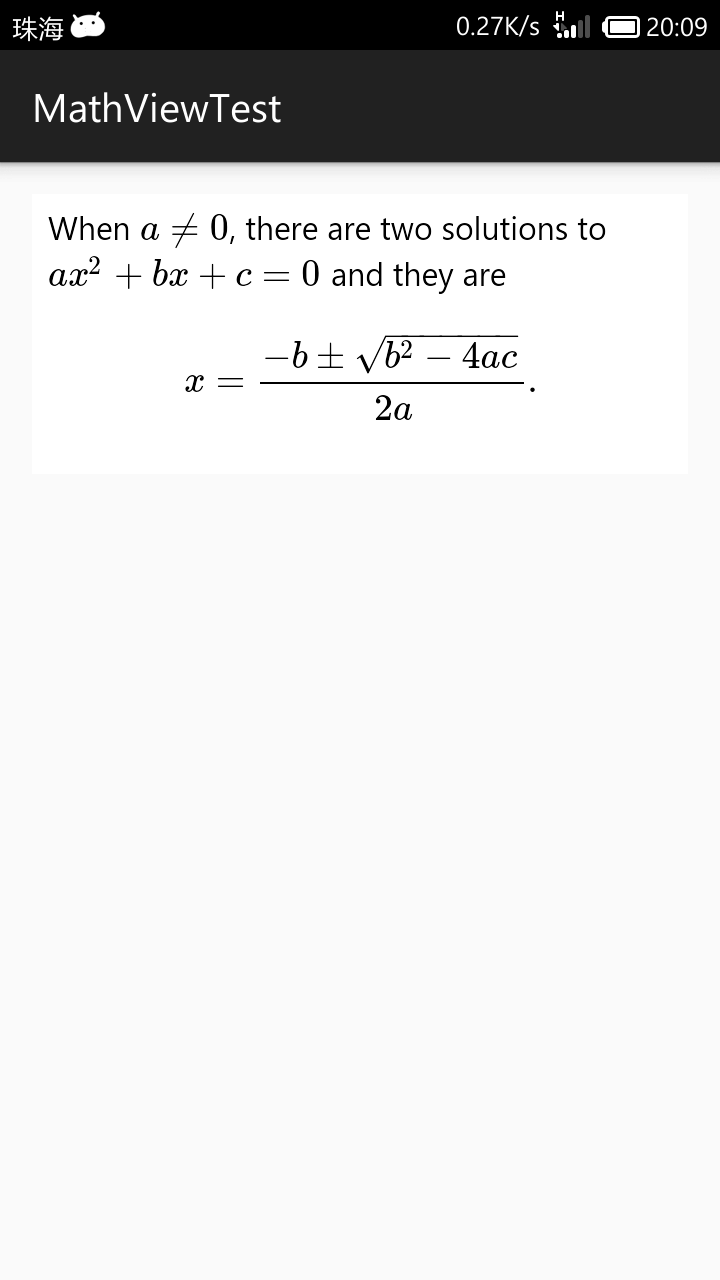
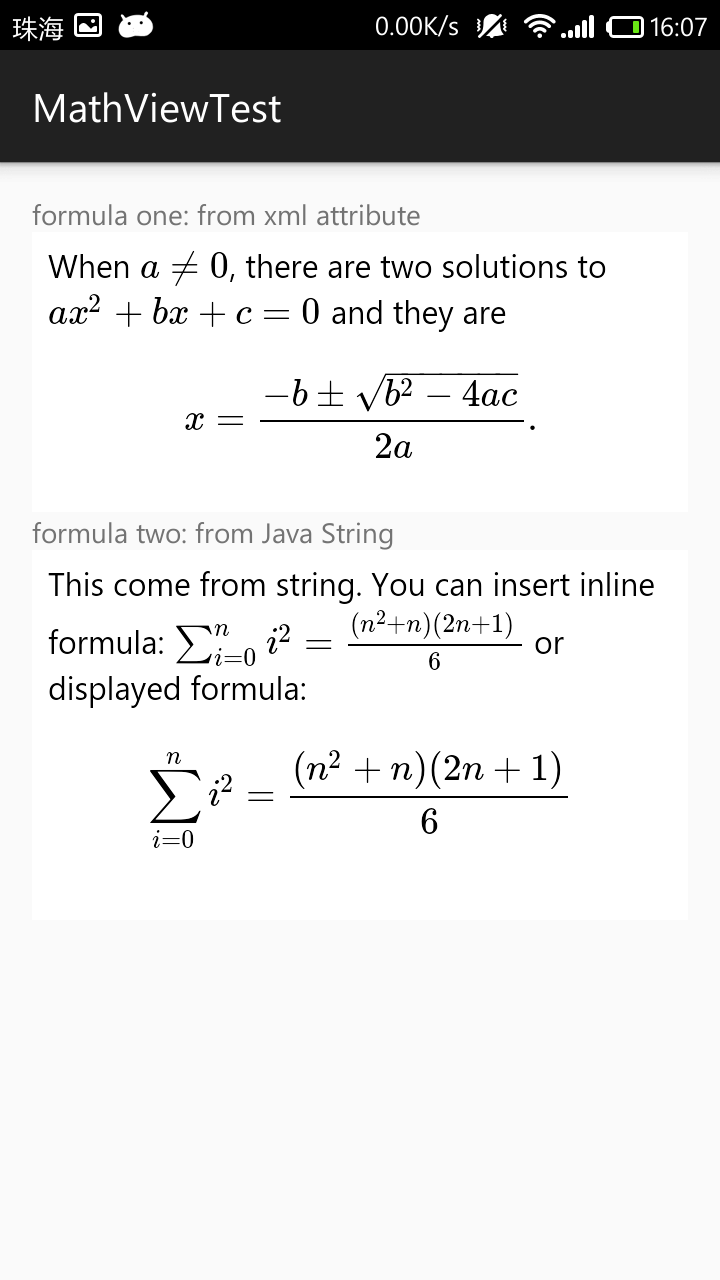
update README.md

diff --git a/app/src/main/java/io/github/kexanie/mathviewtest/MainActivity.java b/app/src/main/java/io/github/kexanie/mathviewtest/MainActivity.java
@@ -4,13 +4,31 @@ import android.support.v7.app.AppCompatActivity;
 import android.os.Bundle;
 import android.view.Menu;
 import android.view.MenuItem;
+import android.widget.Toast;
+
+import io.github.kexanie.library.MathView;
 
 public class MainActivity extends AppCompatActivity {
+    MathView math_one;
+    MathView math_two;
+    String tex = "This come from string. You can insert inline formula: \\(\\sum_{i=0}^n i^2 = \\frac{(n^2+n)(2n+1)}{6}\\) or displayed formula: $$\\sum_{i=0}^n i^2 = \\frac{(n^2+n)(2n+1)}{6}$$";
 
     @Override
     protected void onCreate(Bundle savedInstanceState) {
         super.onCreate(savedInstanceState);
         setContentView(R.layout.activity_main);
+    }
+
+    @Override
+    protected void onResume() {
+        super.onResume();
+
+        math_one = (MathView) findViewById(R.id.formula_one);
+        math_two = (MathView) findViewById(R.id.formula_two);
+
+        // This toast will print raw TeX string
+        Toast.makeText(this, math_one.getText(), Toast.LENGTH_LONG).show();
+        math_two.setText(tex);
     }
 
     @Override

diff --git a/MathView/src/main/java/io/github/kexanie/library/MathView.java b/MathView/src/main/java/io/github/kexanie/library/MathView.java
@@ -3,6 +3,8 @@ package io.github.kexanie.library;
 import android.content.Context;
 import android.content.res.TypedArray;
 import android.util.AttributeSet;
+import android.view.View;
+import android.webkit.WebSettings;
 import android.webkit.WebView;
 
 import com.x5.template.Chunk;
@@ -16,7 +18,16 @@ public class MathView extends WebView {
 
     public MathView(Context context, AttributeSet attrs) {
         super(context, attrs);
-        this.getSettings().setJavaScriptEnabled(true);
+        getSettings().setJavaScriptEnabled(true);
+        getSettings().setCacheMode(WebSettings.LOAD_NO_CACHE);
+        setLongClickable(true);
+        setOnLongClickListener(new OnLongClickListener() {
+            @Override
+            public boolean onLongClick(View v) {
+                return false; // to disable long click
+            }
+        });
+
         AndroidTemplates loader = new AndroidTemplates(context);
         chunk = new Theme(loader).makeChunk("mathview");
 

diff --git a/README.md b/README.md
@@ -44,7 +44,7 @@ The behaviour of `MathView` is nearly the same as `TextView`, except that it wil
 For example:
 
 ```
-<RelativeLayout xmlns:android="http://schemas.android.com/apk/res/android"
+<LinearLayout xmlns:android="http://schemas.android.com/apk/res/android"
     xmlns:tools="http://schemas.android.com/tools"
     xmlns:auto="http://schemas.android.com/apk/res-auto"
     android:layout_width="match_parent"
@@ -53,7 +53,13 @@ For example:
     android:paddingRight="@dimen/activity_horizontal_margin"
     android:paddingTop="@dimen/activity_vertical_margin"
     android:paddingBottom="@dimen/activity_vertical_margin"
-    tools:context=".MainActivity">
+    tools:context=".MainActivity"
+    android:orientation="vertical">
+
+    <TextView
+        android:layout_width="match_parent"
+        android:layout_height="wrap_content"
+        android:text="formula one: from xml attribute"/>
 
     <io.github.kexanie.library.MathView
         android:id="@+id/formula_one"
@@ -63,16 +69,27 @@ For example:
         >
     </io.github.kexanie.library.MathView>
 
-</RelativeLayout>
+    <TextView
+        android:layout_width="match_parent"
+        android:layout_height="wrap_content"
+        android:text="formula two: from Java String"/>
+
+    <io.github.kexanie.library.MathView
+        android:id="@+id/formula_two"
+        android:layout_width="match_parent"
+        android:layout_height="wrap_content"
+        >
+    </io.github.kexanie.library.MathView>
+</LinearLayout>
 ```
 **Please pay attention that you need to escape spacial characters like backslash, quotes and so on.**
-
-(I am trying to fix the escaping problem.)
 
 ### Get an instance from your `Activity`
 ```
 public class MainActivity extends AppCompatActivity {
-    MathView mMathView;
+    MathView math_one;
+    MathView math_two;
+    String tex = "This come from string. You can insert inline formula: \\(\\sum_{i=0}^n i^2 = \\frac{(n^2+n)(2n+1)}{6}\\) or displayed formula: $$\\sum_{i=0}^n i^2 = \\frac{(n^2+n)(2n+1)}{6}$$";
 
     @Override
     protected void onCreate(Bundle savedInstanceState) {
@@ -84,18 +101,12 @@ public class MainActivity extends AppCompatActivity {
     protected void onResume() {
         super.onResume();
 
-        mMathView = (MathView) findViewById(R.id.formula_one);
-        
-        // This toast will print raw TeX string
-        Toast.makeText(this, mMathView.getText(), Toast.LENGTH_LONG).show(); 
-        
-        return true;
-    }
+        math_one = (MathView) findViewById(R.id.formula_one);
+        math_two = (MathView) findViewById(R.id.formula_two);
 
-    @Override
-    public boolean onCreateOptionsMenu(Menu menu) {
-        // Inflate the menu; this adds items to the action bar if it is present.
-        getMenuInflater().inflate(R.menu.menu_main, menu);
+        // This toast will print raw TeX string
+        Toast.makeText(this, math_one.getText(), Toast.LENGTH_LONG).show();
+        math_two.setText(tex);
     }
 }
 ```
